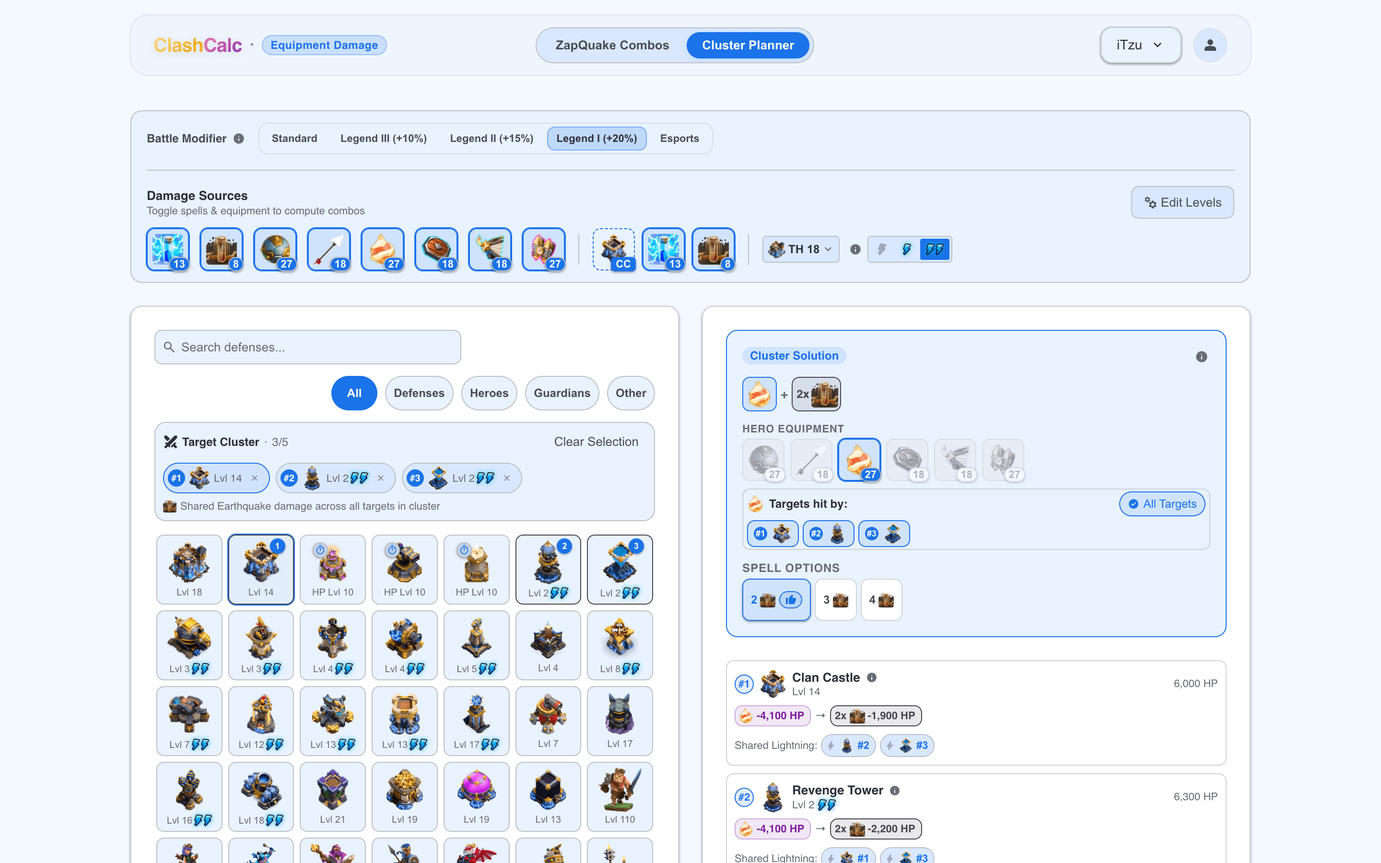
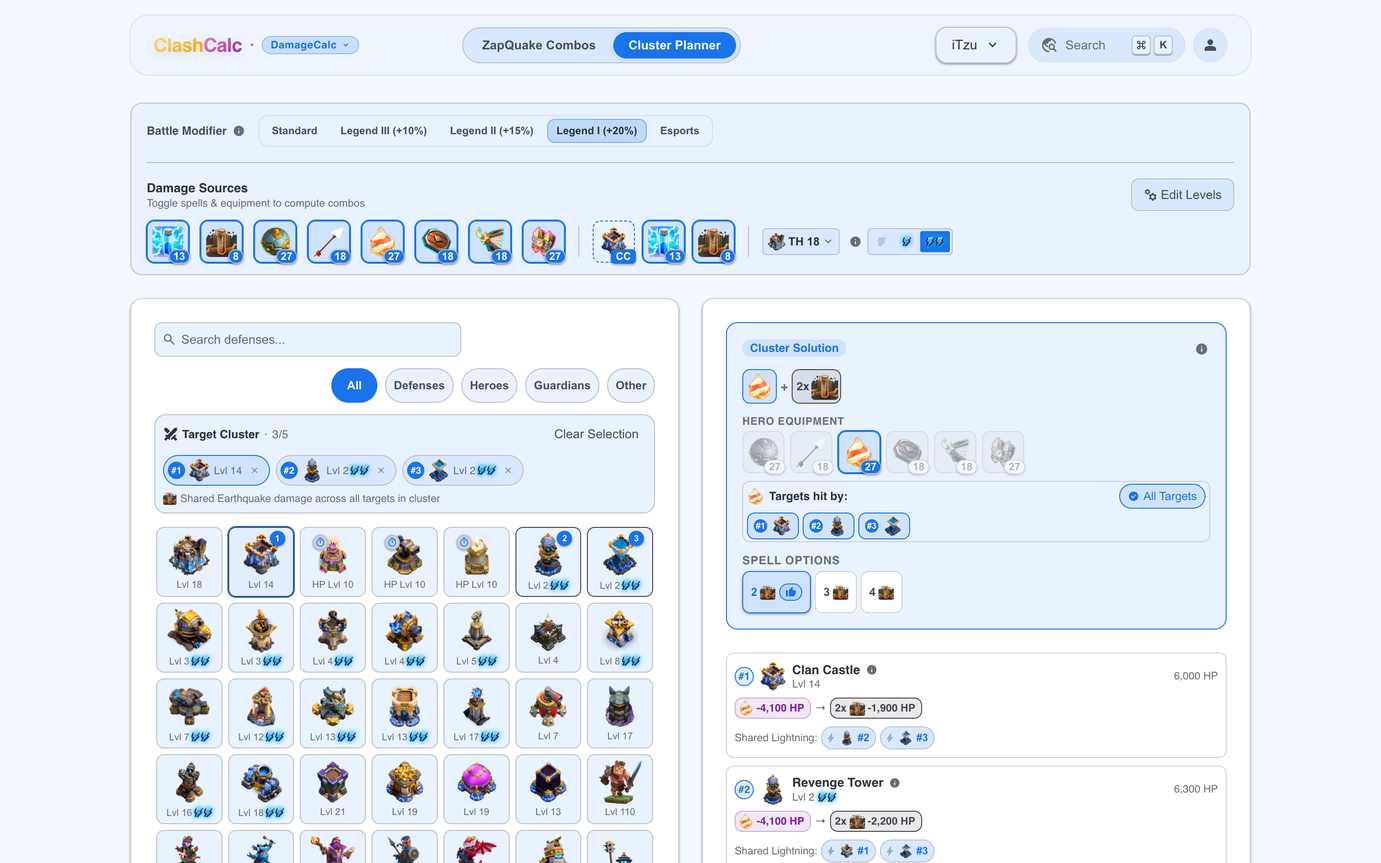
feat(release): prepare v3.1.0 with cloud build ci-cd, and legal policies
- Upgrade Google Cloud Build pipelines to Artifact Registry, E2_STANDARD_2 compute, and pinned pnpm 11.3.0
- Bump application and server versions to 3.1.0 across packages and web manifest declarations
- Publish comprehensive v3.1.0 release notes in repository CHANGELOG and in-app modal data
- Update Privacy Policy and Terms of Use documenting Account Center and local diagnostics privacy
- Synchronize architecture diagrams and LLM developer reference files for the 6 application portals

diff --git a/legal/terms-de.html b/legal/terms-de.html
@@ -10,7 +10,7 @@
     <meta name="theme-color" media="(prefers-color-scheme: light)" content="#f9f9f9">
     <meta name="theme-color" media="(prefers-color-scheme: dark)" content="#121212">
     <meta name="robots" content="noindex, follow">
-    <meta name="effective-date-timestamp" content="1790985600000">
+    <meta name="effective-date-timestamp" content="1793836800000">
     <title>Nutzungsbedingungen - ClashCalc</title>
     <link rel="canonical" href="https://clashcalc.com/de/terms/">
     <link rel="alternate" hreflang="en" href="https://clashcalc.com/terms/" />
@@ -56,14 +56,15 @@
         </div>
 
         <h1>Nutzungsbedingungen</h1>
-        <p><strong>Inkrafttreten:</strong> 3. Oktober 2026 (Ursprünglich veröffentlicht: 5. Juni 2026)</p>
+        <p><strong>Inkrafttreten:</strong> 5. November 2026 (Ursprünglich veröffentlicht: 5. Juni 2026)</p>
 
         <div class="update-summary-box">
-            <h2 class="update-summary-box__title">Zusammenfassung der letzten Aktualisierungen (3. Oktober 2026)</h2>
+            <h2 class="update-summary-box__title">Zusammenfassung der letzten Aktualisierungen (5. November 2026 &ndash; v3.1.0)</h2>
             <ul class="update-summary-box__list">
-                <li><strong>Benutzerkonten &amp; Passkey-Authentifizierung:</strong> Bestimmungen für optionale registrierte Konten, Anmeldedatensicherheit, WebAuthn/Passkey-Authentifizierung und Cloud-Backup hinzugefügt.</li>
-                <li><strong>Kontolöschung &amp; Kündigung:</strong> Selbstbedienungs-Kontolöschung sowie Bedingungen für die Aussetzung von Konten bei Sicherheitsverstößen oder Missbrauch festgelegt.</li>
-                <li><strong>Abschnittsstruktur &amp; Nummerierung:</strong> Abschnitte neu gegliedert, um den erweiterten Funktionsumfang von ClashCalc abzubilden, während Gewährleistungsausschlüsse und der Status als Fan-Toolkit unverändert bleiben.</li>
+                <li><strong>Erweiterung der Suite &amp; Dedizierte Portale:</strong> Einbeziehung des Kontozentrums (<code>/account/</code>) und der App-Verwaltung (<code>/app-management/</code>) in die Bestimmungen zur zul&auml;ssigen Nutzung, Anmeldedatenverwaltung und Offlinedienst-Regeln.</li>
+                <li><strong>Benutzerkonten &amp; Passkey-Authentifizierung:</strong> Bestimmungen f&uuml;r optionale registrierte Konten, Anmeldedatensicherheit, WebAuthn/Passkey-Authentifizierung und Cloud-Backup.</li>
+                <li><strong>Kontol&ouml;schung &amp; K&uuml;ndigung:</strong> Selbstbedienungs-Kontol&ouml;schung sowie Bedingungen f&uuml;r die Aussetzung von Konten bei Sicherheitsverst&ouml;&szlig;en oder Missbrauch.</li>
+                <li><strong>Abschnittsstruktur &amp; Nummerierung:</strong> Reorganisation der Abschnitte zur Abbildung des erweiterten Funktionsumfangs unter Beibehaltung aller Haftungsausschl&uuml;sse als nicht-kommerzielles Fan-Toolkit.</li>
             </ul>
         </div>
 
@@ -73,29 +74,29 @@
             Durch den Zugriff auf oder die Nutzung unseres Dienstes erklären Sie sich damit einverstanden, diese Nutzungsbedingungen einzuhalten und an sie gebunden zu sein. Wenn Sie diesen Bedingungen nicht zustimmen, nutzen Sie den Dienst bitte nicht.
         </p>
 
-        <h2>1. Zulässige Nutzung</h2>
+        <h2>1. Zul&auml;ssige Nutzung</h2>
         <p>
-            ClashCalc stellt Fortschritts- und Taktik-Tools (einschließlich des Erz- &amp; Ausrüstungsrechners, des Heldenreise-Trackers und des Ausrüstungs-Schadensrechners) bereit, die Clash of Clans-Spielern helfen sollen, ihre Upgrades zu planen, Kampfinteraktionen zu analysieren und ihren Fortschritt zu optimieren. Sie erklären sich damit einverstanden, den Dienst ausschließlich für Ihre eigene persönliche, nicht-kommerzielle Unterhaltung zu nutzen. Folgendes ist Ihnen untersagt:
+            ClashCalc stellt Fortschritts-, Taktik- und Verwaltungs-Tools (einschlie&szlig;lich des Erz- &amp; Ausr&uuml;stungsrechners, des Heldenreise-Trackers, des Ausr&uuml;stungs-Schadensrechners, des Kontozentrums und der App-Verwaltung) bereit, die Clash of Clans-Spielern helfen sollen, ihre Upgrades zu planen, Kampfinteraktionen zu analysieren und ihre Spieldaten zu verwalten. Sie erkl&auml;ren sich damit einverstanden, den Dienst ausschlie&szlig;lich f&uuml;r Ihre eigene pers&ouml;nliche, nicht-kommerzielle Unterhaltung zu nutzen. Folgendes ist Ihnen untersagt:
         </p>
         <ul>
-            <li>Der Versuch, die Anwendung oder ihre Serverfunktionen zu manipulieren, zu stören, zu rekonstruieren (Reverse Engineering) oder auszunutzen.</li>
-            <li>Die Verwendung automatisierter Skripte, Bots oder Scraper für den Zugriff auf Daten, die Erstellung von Konten oder die Interaktion mit dem Dienst.</li>
-            <li>Das Einreichen böswilliger Daten oder der Versuch, die Fehlerberichterstattung, die Authentifizierung oder die Cloud-Synchronisationsfunktionen auszunutzen.</li>
-            <li>Der Versuch, Ratenbegrenzungen (Rate Limits), Sicherheitsüberprüfungen oder Zugriffskontrollen zu umgehen.</li>
+            <li>Der Versuch, die Anwendung oder ihre Serverfunktionen zu manipulieren, zu st&ouml;ren, zu rekonstruieren (Reverse Engineering) oder auszunutzen.</li>
+            <li>Die Verwendung automatisierter Skripte, Bots oder Scraper f&uuml;r den Zugriff auf Daten, die Erstellung von Konten oder die Interaktion mit dem Dienst.</li>
+            <li>Das Einreichen b&ouml;swilliger Daten oder der Versuch, die Fehlerberichterstattung, die Authentifizierung oder die Cloud-Synchronisationsfunktionen auszunutzen.</li>
+            <li>Der Versuch, Ratenbegrenzungen (Rate Limits), Sicherheits&uuml;berpr&uuml;fungen oder Zugriffskontrollen zu umgehen.</li>
         </ul>
 
         <h2>2. Datenverarbeitung, Cloud-Synchronisation &amp; Benutzerkonten</h2>
         <p>
-            Unser Dienst legt großen Wert auf Ihre Privatsphäre und Offline-Nutzbarkeit. Die meisten Berechnungen und Planer-Einstellungen werden über <code>localStorage</code> lokal auf Ihrem Gerät gespeichert.
+            Unser Dienst legt gro&szlig;en Wert auf Ihre Privatsph&auml;re und Offline-Nutzbarkeit. Die meisten Berechnungen und Planer-Einstellungen werden &uuml;ber <code>localStorage</code> lokal auf Ihrem Ger&auml;t gespeichert.
         </p>
         <p>
-            <strong>Cloud-Synchronisation:</strong> Wenn Sie sich explizit dafür entscheiden und die Cloud-Synchronisation aktivieren, werden Ihre Konfigurationen sicher auf unseren Servern gesichert. Sie müssen Ihre Daten zuerst über die offizielle Clash of Clans API mit einem gültigen Spieler-Kürzel abrufen, um die Synchronisation zu aktivieren; eine Synchronisation ohne ein gültiges Spieler-Kürzel ist nicht zulässig.
+            <strong>Cloud-Synchronisation:</strong> Wenn Sie sich explizit daf&uuml;r entscheiden und die Cloud-Synchronisation aktivieren, werden Ihre Konfigurationen sicher auf unseren Servern gesichert. Sie m&uuml;ssen Ihre Daten zuerst &uuml;ber die offizielle Clash of Clans API mit einem g&uuml;ltigen Spieler-K&uuml;rzel abrufen, um die Synchronisation zu aktivieren; eine Synchronisation ohne ein g&uuml;ltiges Spieler-K&uuml;rzel ist nicht zul&auml;ssig.
         </p>
         <p>
-            <strong>Benutzerkonten &amp; Authentifizierung:</strong> Sie können optional ein Benutzerkonto mit einem pseudonymen Benutzernamen und entweder einem Passwort oder einem kryptografischen Passkey (FIDO2 / WebAuthn) registrieren. Sie sind dafür verantwortlich, Ihre Anmeldedaten vertraulich zu behandeln und für alle Aktivitäten unter Ihrem Konto die Verantwortung zu tragen. Bei der Verwendung von Passkeys verbleiben die privaten kryptografischen Schlüssel ausschließlich auf Ihrem persönlichen Authentifizierungsgerät und werden zu keinem Zeitpunkt an unsere Server übertragen oder dort gespeichert.
+            <strong>Benutzerkonten &amp; Authentifizierung:</strong> Sie k&ouml;nnen optional ein Benutzerkonto mit einem pseudonymen Benutzernamen und entweder einem Passwort oder einem kryptografischen Passkey (FIDO2 / WebAuthn) registrieren. Sie sind daf&uuml;r verantwortlich, Ihre Anmeldedaten vertraulich zu behandeln und f&uuml;r alle Aktivit&auml;ten unter Ihrem Konto die Verantwortung zu tragen. Bei der Verwendung von Passkeys verbleiben die privaten kryptografischen Schl&uuml;ssel ausschlie&szlig;lich auf Ihrem pers&ouml;nlichen Authentifizierungsger&auml;t und werden zu keinem Zeitpunkt an unsere Server &uuml;bertragen oder dort gespeichert.
         </p>
         <p>
-            Wenn Sie vermuten, dass Ihre Anmeldedaten oder Ihr Konto kompromittiert wurden, können Sie Ihre Anmeldemethode aktualisieren, registrierte Passkeys entfernen oder Ihr Konto und die zugehörigen Cloud-Daten jederzeit über die Optionen unter <strong>Konto- &amp; Datenverwaltung</strong> in den Einstellungen dauerhaft löschen.
+            Wenn Sie vermuten, dass Ihre Anmeldedaten oder Ihr Konto kompromittiert wurden, k&ouml;nnen Sie Ihre Anmeldemethode aktualisieren, registrierte Passkeys entfernen oder Ihr Konto und die zugeh&ouml;rigen Cloud-Daten jederzeit &uuml;ber die Optionen unter <strong>Konto- &amp; Datenverwaltung</strong> in den Einstellungen oder direkt im dedizierten <a href="/de/account/">Kontozentrum</a> dauerhaft l&ouml;schen.
         </p>
 
         <h2>3. Integrationen von Drittanbietern & Haftungsausschluss</h2>

diff --git a/legal/privacy-de.html b/legal/privacy-de.html
@@ -9,7 +9,7 @@
     <meta name="theme-color" media="(prefers-color-scheme: light)" content="#f9f9f9">
     <meta name="theme-color" media="(prefers-color-scheme: dark)" content="#121212">
     <meta name="robots" content="noindex, follow">
-    <meta name="effective-date-timestamp" content="1790985600000">
+    <meta name="effective-date-timestamp" content="1793836800000">
     <title>Datenschutzerklärung - ClashCalc</title>
     <link rel="canonical" href="https://clashcalc.com/de/privacy/">
     <link rel="alternate" hreflang="en" href="https://clashcalc.com/privacy/" />
@@ -54,15 +54,16 @@
         </div>
 
         <h1>Datenschutzerklärung</h1>
-        <p><strong>Inkrafttreten:</strong> 3. Oktober 2026 (Ursprünglich veröffentlicht: 5. Juni 2026)</p>
+        <p><strong>Inkrafttreten:</strong> 5. November 2026 (Ursprünglich veröffentlicht: 5. Juni 2026)</p>
 
         <div class="update-summary-box">
-            <h2 class="update-summary-box__title">Zusammenfassung der letzten Aktualisierungen (3. Oktober 2026)</h2>
+            <h2 class="update-summary-box__title">Zusammenfassung der letzten Aktualisierungen (5. November 2026 &ndash; v3.1.0)</h2>
             <ul class="update-summary-box__list">
-                <li><strong>Benutzerkonten &amp; Passkeys:</strong> Offenlegung der Datenverarbeitung für registrierte Konten (pseudonyme Benutzernamen, mit bcrypt gehashte Passwörter und öffentliche WebAuthn/Passkey-Zugangsdaten).</li>
+                <li><strong>Dedizierte Portale &amp; Lokale Diagnostik:</strong> Dokumentation des eigenst&auml;ndigen Kontozentrums (<code>/account/</code>) und der App-Verwaltung (<code>/app-management/</code>); Klarstellung, dass Cache-Audits, Speicherplatzpr&uuml;fungen und Offlinestatus-Messungen zu 100&nbsp;% lokal im Browser ausgef&uuml;hrt werden &ndash; v&ouml;llig ohne Daten&uuml;bertragung an unsere Server.</li>
+                <li><strong>Benutzerkonten &amp; Passkeys:</strong> Offenlegung der Datenverarbeitung f&uuml;r registrierte Konten (pseudonyme Benutzernamen, mit bcrypt gehashte Passw&ouml;rter und &ouml;ffentliche WebAuthn/Passkey-Zugangsdaten).</li>
                 <li><strong>Missbrauchsschutz &amp; Bot-Sicherheit:</strong> Offenlegung der Cloudflare Turnstile-Verifizierung an Authentifizierungs-Endpunkten.</li>
-                <li><strong>Einheitliche Daten-Selbstverwaltung:</strong> Ersatz früherer manueller Ausschlussanträge durch einheitliche Selbstbedienungsfunktionen: lokaler JSON-Export/-Import, Cache-Löschung, Dorfdaten-Reset und sofortige dauerhafte Kontolöschung.</li>
-                <li><strong>Aufbewahrungsfrist für Diagnosedaten:</strong> Festlegung einer automatisierten 15-tägigen Time-to-Live (TTL)-Löschfrist für Fehlerdiagnosen.</li>
+                <li><strong>Einheitliche Daten-Selbstverwaltung:</strong> Einheitliche Selbstbedienungsfunktionen: lokaler JSON-Export/-Import, Cache-L&ouml;schung, Dorfdaten-Reset und sofortige dauerhafte Kontol&ouml;schung.</li>
+                <li><strong>Aufbewahrungsfrist f&uuml;r Diagnosedaten:</strong> Festlegung einer automatisierten 15-t&auml;gigen Time-to-Live (TTL)-L&ouml;schfrist f&uuml;r server-seitige Fehlerdiagnosen.</li>
             </ul>
         </div>
 
@@ -143,14 +144,14 @@
 
         <h2>5. Ihre Datenrechte &amp; Löschwerkzeuge</h2>
         <p>
-            Wir orientieren uns an den globalen Datenschutzstandards wie der EU-DSGVO und dem CCPA, indem wir direkt in den Einstellungen unter <strong>Konto- &amp; Datenverwaltung</strong> umfassende Tools zur Selbstverwaltung Ihrer Daten bereitstellen:
+            Wir orientieren uns an den globalen Datenschutzstandards wie der EU-DSGVO und dem CCPA, indem wir direkt in den Einstellungen unter <strong>Konto- &amp; Datenverwaltung</strong> sowie &uuml;ber die dedizierten Portale <a href="/de/account/">Kontozentrum</a> und <a href="/de/app-management/">App-Verwaltung</a> umfassende Tools zur Selbstverwaltung Ihrer Daten bereitstellen:
         </p>
         <ul>
             <li>
                 <strong>Daten sichern &amp; wiederherstellen:</strong> Exportieren und laden Sie Ihren gesamten Anwendungsstatus jederzeit als JSON-Datei herunter oder stellen Sie Ihre Konfiguration aus einer früheren Sicherungsdatei wieder her.
             </li>
             <li>
-                <strong>Geräte-Cache leeren:</strong> Löscht temporäre zwischengespeicherte Antworten und Asset-Indizes, ohne Ihre dauerhaften Spielerkonfigurationen oder Einstellungen zu verändern.
+                <strong>Geräte-Cache leeren &amp; Speicherprüfung:</strong> Das Portal App-Verwaltung (<code>/app-management/</code>) ermöglicht Ihnen die Inspektion lokaler Cache-Partitionen, die Prüfung des Offline-Asset-Speichers und die Bereinigung temporärer zwischengespeicherter Antworten, ohne Ihre dauerhaften Spielerkonfigurationen zu beeinträchtigen.
             </li>
             <li>
                 <strong>Dorfdaten zurücksetzen:</strong> Setzt den lokalen Spielfortschritt, Ausrüstungsstufen und nicht synchronisierte Berechnungen, die im <code>localStorage</code> Ihres Browsers gespeichert sind, dauerhaft zurück.
@@ -159,7 +160,7 @@
                 <strong>Alle Daten löschen (Anonyme Cloud-Synchronisation):</strong> Löscht dauerhaft alle lokalen Browserdaten und entfernt Ihr synchronisiertes Sicherungsprofil sowie Ihre Einstellungen von unseren Cloud-Servern.
             </li>
             <li>
-                <strong>Konto löschen (Registrierte Benutzerkonten):</strong> Bietet eine sofortige Selbstbedienungs-Löschoption, die Ihr registriertes Konto dauerhaft bereinigt, Ihren Passwort-Hash und registrierte Passkeys entfernt, alle in der Cloud synchronisierten Dörfer und Planer-Konfigurationen aus unserer Datenbank löscht, aktive Sitzungs-Token entwertet und Ihre Benutzer-ID in einem Löschregister sperrt, um verwaiste Datenbestände auszuschließen.
+                <strong>Konto löschen (Registrierte Benutzerkonten):</strong> Bietet eine sofortige Selbstbedienungs-Löschoption (über die Einstellungen oder direkt im Kontozentrum unter <code>/account/</code>), die Ihr registriertes Konto dauerhaft bereinigt, Ihren Passwort-Hash und registrierte Passkeys entfernt, alle in der Cloud synchronisierten Dörfer und Planer-Konfigurationen aus unserer Datenbank löscht, aktive Sitzungs-Token entwertet und Ihre Benutzer-ID in einem Löschregister sperrt, um verwaiste Datenbestände auszuschließen.
             </li>
         </ul>
 

diff --git a/legal/privacy-en.html b/legal/privacy-en.html
@@ -9,7 +9,7 @@
     <meta name="theme-color" media="(prefers-color-scheme: light)" content="#f9f9f9">
     <meta name="theme-color" media="(prefers-color-scheme: dark)" content="#121212">
     <meta name="robots" content="noindex, follow">
-    <meta name="effective-date-timestamp" content="1790985600000">
+    <meta name="effective-date-timestamp" content="1793836800000">
     <title>Privacy Policy - ClashCalc</title>
     <link rel="canonical" href="https://clashcalc.com/privacy/">
     <link rel="alternate" hreflang="en" href="https://clashcalc.com/privacy/" />
@@ -54,15 +54,16 @@
         </div>
 
         <h1>Privacy Policy</h1>
-        <p><strong>Effective Date:</strong> October 3, 2026 (Originally Published: June 5, 2026)</p>
+        <p><strong>Effective Date:</strong> November 5, 2026 (Originally Published: June 5, 2026)</p>
 
         <div class="update-summary-box">
-            <h2 class="update-summary-box__title">Summary of Recent Updates (October 3, 2026)</h2>
+            <h2 class="update-summary-box__title">Summary of Recent Updates (November 5, 2026 &ndash; v3.1.0)</h2>
             <ul class="update-summary-box__list">
+                <li><strong>Dedicated Portals &amp; Local Diagnostics:</strong> Documented the standalone Account Center (<code>/account/</code>) and App Management (<code>/app-management/</code>) portals; clarified that local cache auditing, device telemetry inspection, and offline storage quota checks operate 100% locally on-device with zero diagnostic tracking.</li>
                 <li><strong>User Accounts &amp; Passkeys:</strong> Disclosed data handling for registered accounts (pseudonymous usernames, bcrypt-hashed passwords, and WebAuthn/Passkey public credentials).</li>
                 <li><strong>Anti-Abuse &amp; Bot Security:</strong> Disclosed Cloudflare Turnstile verification on authentication endpoints.</li>
-                <li><strong>Unified Self-Service Data Management:</strong> Replaced legacy manual exclusion requests with unified self-service controls: local JSON export/import, cache clearing, village data reset, and instant permanent account deletion.</li>
-                <li><strong>Diagnostic Data Retention:</strong> Specified an automated 15-day time-to-live (TTL) retention schedule for error diagnostics.</li>
+                <li><strong>Unified Self-Service Data Management:</strong> Self-service controls for local JSON export/import, cache clearing, village data reset, and instant permanent account deletion.</li>
+                <li><strong>Diagnostic Data Retention:</strong> Specified an automated 15-day time-to-live (TTL) retention schedule for server-side error diagnostics.</li>
             </ul>
         </div>
 
@@ -143,14 +144,14 @@
 
         <h2>5. Your Data Rights &amp; Deletion Tools</h2>
         <p>
-            We align with EU GDPR, CCPA, and global privacy standards by providing comprehensive self-service data management tools directly inside the Settings tab under <strong>Account &amp; Data Management</strong>:
+            We align with EU GDPR, CCPA, and global privacy standards by providing comprehensive self-service data management tools directly inside the Settings tab under <strong>Account &amp; Data Management</strong>, as well as through dedicated portals at <a href="/account/">Account Center</a> and <a href="/app-management/">App Management</a>:
         </p>
         <ul>
             <li>
                 <strong>Data Backup &amp; Restore:</strong> Export and download your entire application state as a JSON file at any time, or restore your configuration from a previous backup file.
             </li>
             <li>
-                <strong>Clear Device Cache:</strong> Wipes temporary cached responses and asset indexes without altering your persistent player configurations or settings.
+                <strong>Clear Device Cache &amp; Storage Audit:</strong> The App Management portal (<code>/app-management/</code>) allows you to inspect local cache partitions, audit offline asset storage, and wipe temporary cached responses without altering your persistent player configurations.
             </li>
             <li>
                 <strong>Reset Village Data:</strong> Permanently resets local village progression, equipment levels, and unsynced calculations stored in your browser's <code>localStorage</code>.
@@ -159,7 +160,7 @@
                 <strong>Delete All Data (Anonymous Cloud Sync):</strong> Permanently wipes all local browser data and deletes your synced backup profile and settings from our cloud servers.
             </li>
             <li>
-                <strong>Delete Account (Registered Accounts):</strong> Provides an immediate, self-service deletion option that permanently purges your registered account, removes your password hash and registered Passkeys, deletes all cloud-synced villages and configurations from our database, invalidates active session tokens, and places your identifier in a deletion ledger to ensure no orphaned data remains.
+                <strong>Delete Account (Registered Accounts):</strong> Provides an immediate, self-service deletion option (accessible via Settings or the Account Center at <code>/account/</code>) that permanently purges your registered account, removes your password hash and registered Passkeys, deletes all cloud-synced villages and configurations from our database, invalidates active session tokens, and places your identifier in a deletion ledger to ensure no orphaned data remains.
             </li>
         </ul>
 

diff --git a/legal/terms-en.html b/legal/terms-en.html
@@ -10,7 +10,7 @@
     <meta name="theme-color" media="(prefers-color-scheme: light)" content="#f9f9f9">
     <meta name="theme-color" media="(prefers-color-scheme: dark)" content="#121212">
     <meta name="robots" content="noindex, follow">
-    <meta name="effective-date-timestamp" content="1790985600000">
+    <meta name="effective-date-timestamp" content="1793836800000">
     <title>Terms of Use - ClashCalc</title>
     <link rel="canonical" href="https://clashcalc.com/terms/">
     <link rel="alternate" hreflang="en" href="https://clashcalc.com/terms/" />
@@ -56,11 +56,12 @@
         </div>
 
         <h1>Terms of Use</h1>
-        <p><strong>Effective Date:</strong> October 3, 2026 (Originally Published: June 5, 2026)</p>
+        <p><strong>Effective Date:</strong> November 5, 2026 (Originally Published: June 5, 2026)</p>
 
         <div class="update-summary-box">
-            <h2 class="update-summary-box__title">Summary of Recent Updates (October 3, 2026)</h2>
+            <h2 class="update-summary-box__title">Summary of Recent Updates (November 5, 2026 &ndash; v3.1.0)</h2>
             <ul class="update-summary-box__list">
+                <li><strong>Suite Expansion &amp; Dedicated Portals:</strong> Expanded scope to include Account Center (<code>/account/</code>) and App Management (<code>/app-management/</code>) within permitted use, credential management, and offline service rules.</li>
                 <li><strong>User Accounts &amp; Passkey Authentication:</strong> Added terms governing optional registered accounts, credential security, WebAuthn/Passkey authentication, and cloud backup synchronization.</li>
                 <li><strong>Account Deletion &amp; Termination:</strong> Specified self-service account deletion and the terms under which accounts may be suspended for security or abusive behavior.</li>
                 <li><strong>Section Structure &amp; Renumbering:</strong> Reorganized sections to reflect ClashCalc's expanded feature set while maintaining core disclaimers and non-commercial fan-toolkit terms.</li>
@@ -76,7 +77,7 @@
 
         <h2>1. Permitted Use</h2>
         <p>
-            ClashCalc provides progression and tactical tools (including the Ore &amp; Equipment Calculator, Hero's Journey Tracker, and Equipment Damage Calculator) designed to help Clash of Clans players plan their upgrades, evaluate combat interactions, and optimize progression. You agree to use the Service solely for your own personal, non-commercial entertainment. You must not:
+            ClashCalc provides progression, tactical, and management tools (including the Ore &amp; Equipment Calculator, Hero's Journey Tracker, Equipment Damage Calculator, Account Center, and App Management) designed to help Clash of Clans players plan their upgrades, evaluate combat interactions, and manage their game data. You agree to use the Service solely for your own personal, non-commercial entertainment. You must not:
         </p>
         <ul>
             <li>Attempt to reverse engineer, disrupt, or exploit the application or its server functions.</li>
@@ -97,7 +98,7 @@
             <strong>User Accounts &amp; Authentication:</strong> You may optionally register an account using a pseudonymous username and either a password or a cryptographic Passkey (FIDO2 / WebAuthn). You are responsible for maintaining the confidentiality of your sign-in credentials and for all activities that occur under your account. When utilizing Passkeys, private cryptographic keys remain strictly on your personal authenticator device and are never sent to or stored on our servers.
         </p>
         <p>
-            If you suspect your credentials or account have been compromised, you can update your sign-in method, delete registered passkeys, or permanently delete your account and associated cloud data at any time via the <strong>Account &amp; Data Management</strong> options in Settings.
+            If you suspect your credentials or account have been compromised, you can update your sign-in method, delete registered passkeys, or permanently delete your account and associated cloud data at any time via the <strong>Account &amp; Data Management</strong> options in Settings or directly inside the dedicated <a href="/account/">Account Center</a>.
         </p>
 
         <h2>3. Third-Party Integrations, Brands & Disclaimers</h2>

diff --git a/js/data/changelogData.js b/js/data/changelogData.js
@@ -1,5 +1,18 @@
 export const changelogData = [
     {
+        version: "v3.1.0",
+        date: "2026-11-05",
+        changes: [
+            { type: "feature", text: "<strong>Dedicated Account Management Center</strong>: Introduced a centralized Account Center (<code>/account/</code>) featuring hero avatar selection, dual-mode credential management (passwords and biometric WebAuthn passkeys), active session tracking with remote device revocation, profile data export, and self-service account deletion." },
+            { type: "feature", text: "<strong>Standalone App Management Portal</strong>: Added a dedicated diagnostics portal (<code>/app-management/</code>) providing live network telemetry, PWA installation status and platform guidance, service worker cache diagnostics, storage partition inspections, and client-side update controls." },
+            { type: "feature", text: "<strong>Universal App Shell & Brand Navigation</strong>: Implemented persistent client-side application chrome across all tools with seamless view transitions, stationary chrome, an accessible brand tool switcher dropdown, and hysteresis-buffered mobile brand pill compaction." },
+            { type: "fix", text: "<strong>UI State Standardization & Lifecycle Hardening</strong>: Standardized <code>.is-active</code> state classes across navigation tabs, retired the legacy settings tab in favor of reactive troubleshooting, hardened modal history lifecycles, and unified Town Hall badges." },
+            { type: "chore", text: "<strong>Google Cloud CI/CD Optimization & Free-Tier Maximization</strong>: Configured path-isolated Cloud Build triggers (<code>server/**</code> for API vs frontend ignore rules), upgraded compute to <code>E2_STANDARD_2</code> within Google Cloud's free tier, and modernized pipelines to Google Artifact Registry." },
+            { type: "chore", text: "<strong>Cloudflare Pages Staging Deployment</strong>: Added automated direct staging deployments to <code>beta.clashcalc.com</code> via Cloudflare Wrangler with zero-downtime edge caching." },
+            { type: "chore", text: "<strong>Repository Branch Migration & Localization Sync</strong>: Transitioned primary branch to <code>main</code> with an isolated <code>orecalc-legacy</code> branch, upgraded Crowdin CLI to v5.6.0, and expanded automated test coverage to 1,640 passing unit tests." }
+        ]
+    },
+    {
         version: "v3.0.0",
         date: "2026-10-05",
         changes: [

diff --git a/ore-calculator/index.html b/ore-calculator/index.html
@@ -37,7 +37,7 @@
     <!-- include: partials/head/importmap.html -->
     <title data-i18n="app.metaTitle">OreCalc — Clash of Clans Equipment &amp; Upgrade Planner | ClashCalc</title>
     <link rel="icon" href="/assets/favicon.png" type="image/x-icon">
-    <link rel="manifest" href="/manifest.json?v=3.0.0">
+    <link rel="manifest" href="/manifest.json?v=3.1.0">
     <link rel="canonical" href="https://clashcalc.com/ore-calculator/">
     <link rel="alternate" hreflang="en" href="https://clashcalc.com/ore-calculator/" />
     <link rel="alternate" hreflang="de" href="https://clashcalc.com/de/ore-calculator/" />

diff --git a/server/tests/constants.test.js b/server/tests/constants.test.js
@@ -28,6 +28,7 @@ test('ALLOWED_ORIGINS is deeply frozen and contains production and local develop
     assert.ok(ALLOWED_ORIGINS.includes('https://clashcalc.com'));
     assert.ok(ALLOWED_ORIGINS.includes('https://www.clashcalc.com'));
     assert.ok(ALLOWED_ORIGINS.includes('https://beta.clashcalc.com'));
+    assert.ok(ALLOWED_ORIGINS.includes('https://clashcalc-beta.pages.dev'));
     assert.ok(ALLOWED_ORIGINS.includes('https://orecalc-beta.pages.dev'));
     assert.ok(ALLOWED_ORIGINS.includes('http://localhost:8080'));
 });

diff --git a/index.html b/index.html
@@ -36,7 +36,7 @@
     <meta property="twitter:image" content="https://clashcalc.com/assets/landing_og.png">
 
     <link rel="icon" href="/assets/favicon.png" type="image/x-icon">
-    <link rel="manifest" href="/manifest.json?v=3.0.0">
+    <link rel="manifest" href="/manifest.json?v=3.1.0">
     <link rel="canonical" href="https://clashcalc.com/">
     <link rel="alternate" hreflang="en" href="https://clashcalc.com/" />
     <link rel="alternate" hreflang="de" href="https://clashcalc.com/de/" />

diff --git a/server/constants.js b/server/constants.js
@@ -11,6 +11,7 @@ const ALLOWED_ORIGINS = deepFreeze([
     'https://clashcalc.com',
     'https://www.clashcalc.com',
     'https://beta.clashcalc.com',
+    'https://clashcalc-beta.pages.dev',
     'https://orecalc-beta.pages.dev',
     'http://localhost:8080',
     'http://127.0.0.1:8080',

diff --git a/README.md b/README.md
@@ -21,6 +21,8 @@ A high-performance, privacy-first web application suite engineered for Clash of 
 | **Damage Calculator** | ZapQuake & hero ability destruction solver | Minimal spell and active ability combinations required to destroy target structures, Pareto-optimal superset pruning, damage profiles for active abilities, building HP & supercharge tier modeling. |
 | **Cluster Planner** | Multi-target area tactical planning | Select 2 to 5 target defenses to calculate combined burst damage solutions and spell thresholds across defense clusters. |
 | **Hero's Journey** | Milestone progression & reward resolver | Milestone track visualization, quest chest yield models across Town Hall levels, and deterministic equipment unlock and Starry Ore fallback resolution. |
+| **Account Center** | Credential management & security | Profile avatar customization, dual-mode authentication (passwords & biometric WebAuthn passkeys), active session tracking with remote revocation, and self-service account deletion. |
+| **App Management** | Device diagnostics & PWA controls | Real-time network telemetry, offline service worker cache inspector, local storage partition inspector, and PWA installation management. |
 
 ---
 
@@ -127,11 +129,19 @@ A high-performance, privacy-first web application suite engineered for Clash of 
 
 ### Continuous Deployment (Google Cloud Run)
 
-ClashCalc is deployed to Google Cloud Run using automated commit-based triggers via Google Cloud Build.
+ClashCalc is deployed to Google Cloud Run using automated commit-based triggers via Google Cloud Build:
 
-- **Frontend Service (`clashcalc-webapp`)**: Triggered on repository commits, executes `cloudbuild.frontend.yaml` to build static assets, package the container, and deploy to Cloud Run. Mapped to `clashcalc.com`.
-- **Backend Service (`clashcalc-api`)**: Triggered on changes in `server/`, executes `server/cloudbuild.backend.yaml` to containerize the Express API, inject secrets from Google Cloud Secret Manager, and deploy to Cloud Run. Mapped to `api.clashcalc.com`.
+- **Frontend Service (`clashcalc-webapp`)**: Triggered on commits affecting frontend code (ignoring `server/`, tests, and docs), executes `cloudbuild.frontend.yaml` on `E2_STANDARD_2` compute instances, and deploys to Cloud Run. Mapped to `clashcalc.com`.
+- **Backend Service (`clashcalc-api`)**: Triggered strictly on changes in `server/`, executes `server/cloudbuild.backend.yaml` to containerize the Express API, inject secrets from Google Cloud Secret Manager, and deploy to Cloud Run. Mapped to `api.clashcalc.com`.
 - **Secret Manager Bindings**: Production deployments bind secrets dynamically (`CLASH_OF_CLANS_API_TOKEN`, `FIRESTORE_SA_KEY`, `JWT_SECRET`, `TURNSTILE_SECRET_KEY`, `SMTP_PASS`).
+
+### Staging Deployment (Cloudflare Pages)
+
+The beta staging portal (`beta.clashcalc.com`) is deployed directly via Cloudflare Wrangler:
+
+```bash
+pnpm exec wrangler pages deploy dist --project-name=clashcalc-beta --branch=main
+```
 
 ### Manual CLI Deployment (Self-Hosting)
 
@@ -183,6 +193,8 @@ OreCalc/
 │   ├── app.js           # Ore Calculator single-page application
 │   ├── heroJourneyApp.js# Hero's Journey tracker
 │   ├── damageApp.js     # ZapQuake & damage solver
+│   ├── accountApp.js    # User account center & credential management
+│   ├── appManagementApp.js # Device diagnostics, PWA controls & storage inspect
 │   ├── components/      # UI components (Display renderers & Input controllers)
 │   ├── core/            # State management, storage partitioning, migrations
 │   ├── domain/          # Pure calculation algorithms and combinatorial solvers

diff --git a/CHANGELOG.md b/CHANGELOG.md
@@ -6,6 +6,31 @@ The format is based on [Keep a Changelog](https://keepachangelog.com/en/1.0.0/),
 
 ---
 
+## [3.1.0] - 2026-11-05
+
+### Added
+
+- **Dedicated Account Management Center**: Introduced a standalone Account Center (`/account/`) featuring hero avatar customization, dual-mode credential management (passwords and biometric WebAuthn passkeys), active session tracking with remote device revocation, full profile data export, and self-service account deletion.
+- **App Management & Device Diagnostics**: Added a dedicated diagnostics portal (`/app-management/`) providing live network telemetry, PWA installation status and platform guidance, service worker cache control, storage partition inspection, and client-side update controls.
+- **Persistent App Shell & Brand Switcher**: Built a persistent client-side application shell across all tools (Hub, Ore Calculator, Hero's Journey, Damage Calculator, Account, App Management) with seamless view transitions, stationary header and drawer chrome, an accessible brand tool switcher dropdown, and responsive brand pill compaction.
+- **Cloudflare Pages Staging Deployment**: Configured direct automated staging deployments to `beta.clashcalc.com` via Cloudflare Wrangler with zero-downtime edge caching.
+
+### Changed
+
+- **Default Branch Migration**: Transitioned repository default branch to `main`, establishing `orecalc-legacy` for legacy OreCalc maintenance.
+- **Google Cloud CI/CD Optimization**: Configured path-isolated Cloud Build triggers (`server/**` for API vs frontend ignore rules), upgraded build compute to `E2_STANDARD_2` (2 vCPUs, 8 GB RAM) within Google Cloud's free tier, and modernized pipeline definitions to Google Artifact Registry.
+- **UI State Standardization**: Standardized `.is-active` state classes across component switches and navigation elements, retired legacy settings tab in favor of reactive troubleshooting, and unified Town Hall badges.
+- **Package Manager Pinning**: Pinned `pnpm@11.3.0` across workspace packages and container Dockerfiles to ensure deterministic reproducibility.
+- **Crowdin Localization**: Upgraded `@crowdin/cli` to `v5.6.0` and aligned multi-branch translation synchronization across English, German, Turkish, and Chinese.
+
+### Fixed
+
+- **Mobile Brand Compaction**: Eliminated viewport boundary oscillation with a hysteresis buffer and preserved header element dimensions on small screens down to 350px.
+- **Service Worker Lifecycle**: Enforced root-absolute favicon and asset paths to prevent subroute 404 errors during progressive web app updates.
+- **Test Suite Contracts**: Pruned brittle regex tests, replaced synthetic DOM mocks with strict business logic and accessibility contract assertions, expanding test suite to 1,640 passing unit tests.
+
+---
+
 ## [3.0.0] - 2026-10-07
 
 ### Added

diff --git a/CONTRIBUTING.md b/CONTRIBUTING.md
@@ -44,7 +44,7 @@ We welcome contributions to ClashCalc (formerly OreCalc)! To maintain code quali
 
 ## Git & Branching Workflow
 
-1. Create a descriptive branch from `clashcalc` / `main`:
+1. Create a descriptive branch from `main`:
    - `feat/your-feature-name` for new features or capabilities.
    - `fix/bug-description` for bug fixes.
    - `chore/task-name` for build, dependencies, or maintenance.
@@ -71,7 +71,7 @@ $$\text{Data} \longrightarrow \text{Domain} \longrightarrow \text{Core} \longrig
   - `*Display.js`: Pure DOM construction and visual output. Never attach event listeners in display modules.
   - `*Inputs.js`: User input listeners, click handlers, validation, and state dispatchers.
 - **Strict Suffixing**: Component filenames must end with either `Display.js` or `Inputs.js`.
-- **HTML Templates**: Entry templates (`index.html`, `ore-calculator/index.html`, `hero-journey/index.html`, `damage-calculator/index.html`) are minimal shells using compile-time includes under `partials/` (injected via `<!-- include: partials/... -->`).
+- **HTML Templates**: Entry templates (`index.html`, `ore-calculator/index.html`, `hero-journey/index.html`, `damage-calculator/index.html`, `account/index.html`, `app-management/index.html`) are minimal shells using compile-time includes under `partials/` (injected via `<!-- include: partials/... -->`).
 
 ### 3. State & Data Management
 
